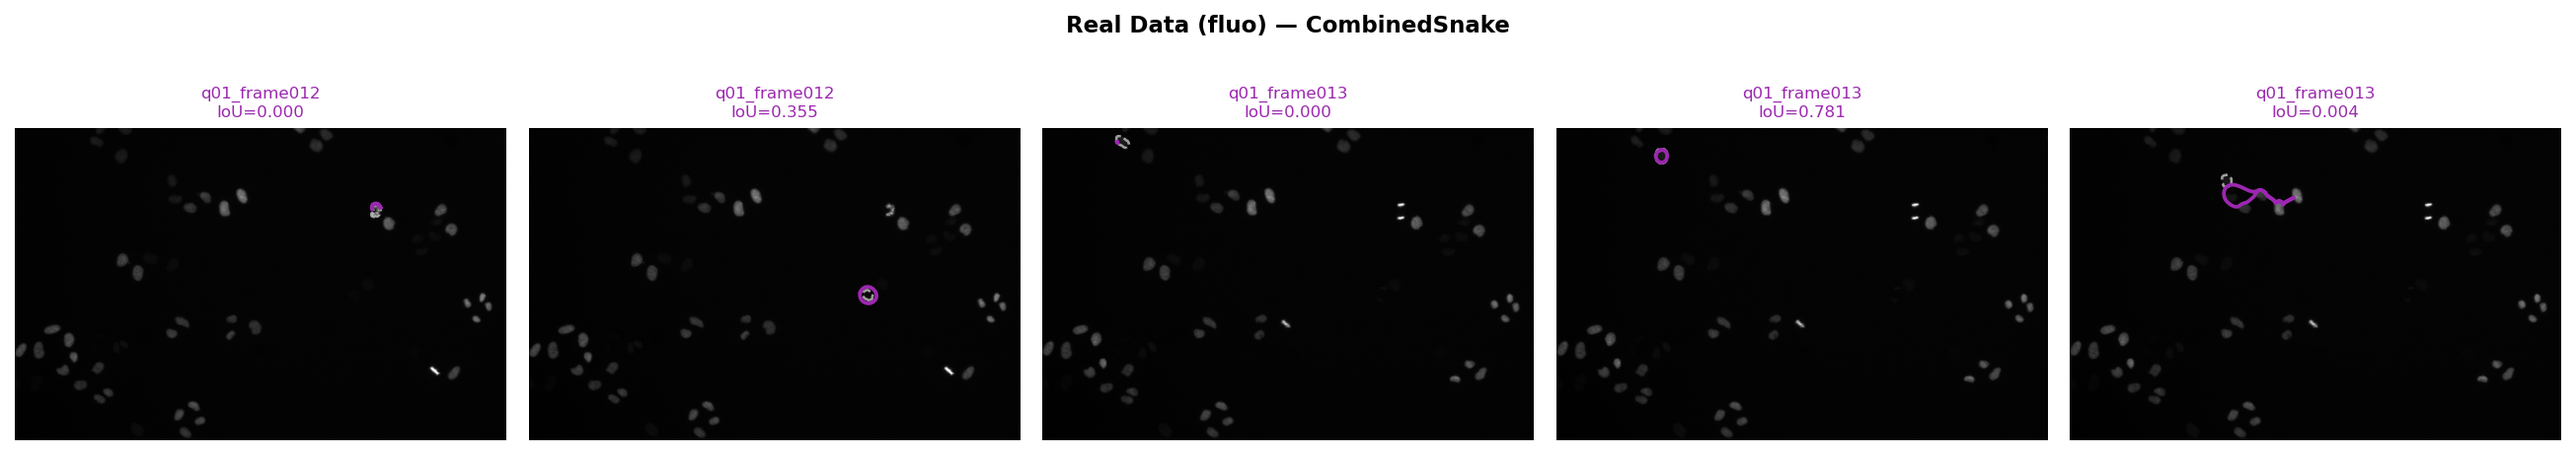
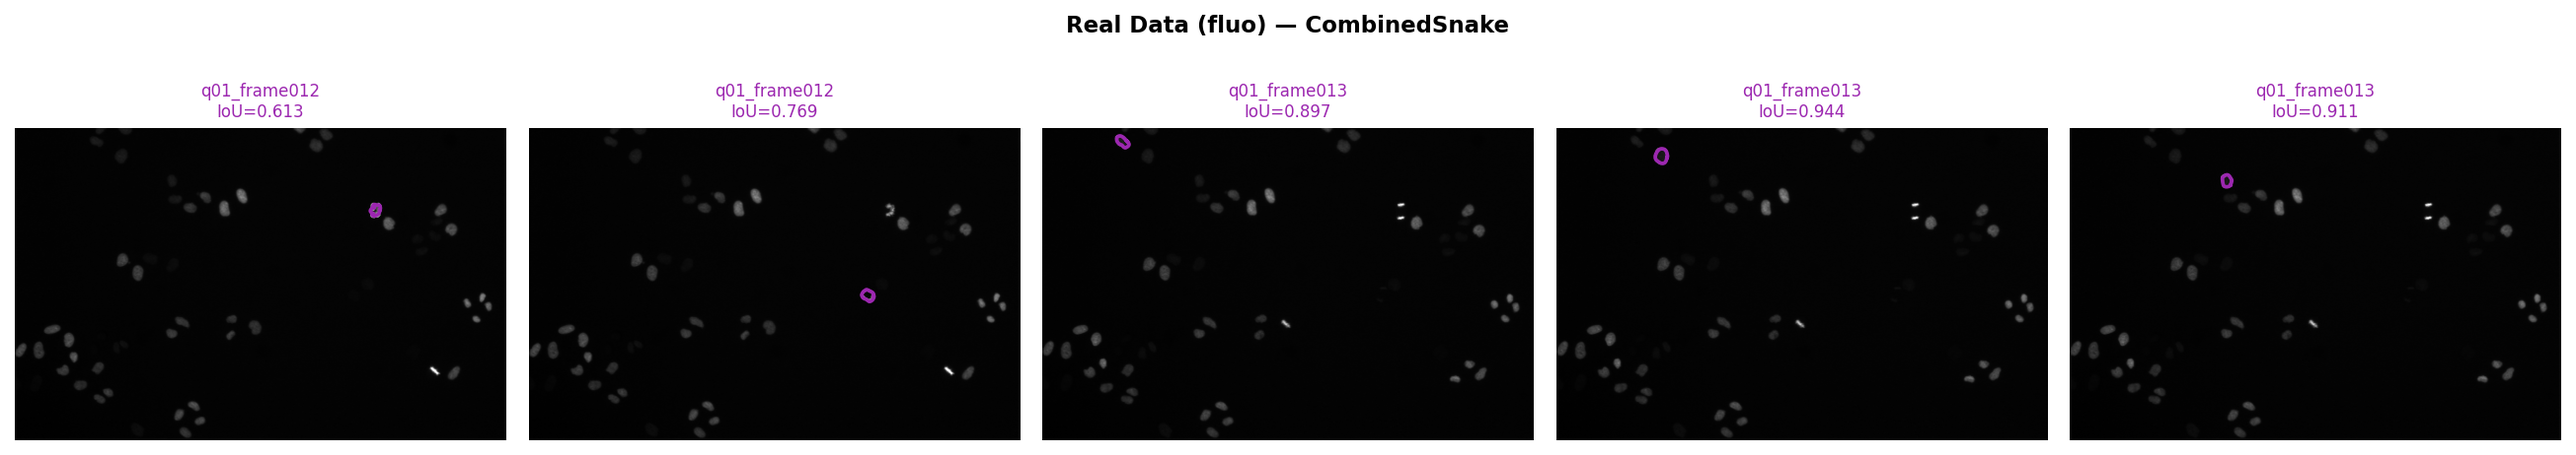
Optimized the Combined Snake

diff --git a/src/combined_snake.py b/src/combined_snake.py
@@ -8,12 +8,8 @@ from .energy import compute_external_forces
 
 class CombinedSnake(AdaptiveSnake):
     """
-    Combined coarse-to-fine (multi-scale) + spatially adaptive snake.
-
-    1. Coarse-to-Fine: Constructs a spatial image pyramid. The snake is initialized
-       on a low-resolution image to bypass local minima, then upscaled to higher resolutions.
-    2. Adaptive: At each level, the bending stiffness (beta) adapts to the local 
-       gradient of that specific resolution level.
+    Optimized coarse-to-fine (multi-scale) + spatially adaptive snake
+    tailored for faint, real-world low-contrast biomedical images (e.g., HeLa cells).
     """
 
     def __init__(
@@ -24,61 +20,70 @@ class CombinedSnake(AdaptiveSnake):
     ):
         super().__init__(**adaptive_kwargs)
         self.n_levels = n_levels
-        
+        # Base budget allocation per level
         self.n_iter_per_level = n_iter_per_level or max(1, self.n_iter // n_levels)
 
     def _build_spatial_pyramid(self, image):
-        """
-        Step 1: Construct a multi-scale spatial pyramid.
-        Returns a list of images ordered from COARSE (low-res) to FINE (original-res).
-        """
+        """Construct a multi-scale spatial pyramid ordered from COARSE to FINE."""
         pyramid = [image]
         current_img = image
         
-        # Iteratively downsample the image by a factor of 0.5
         for _ in range(self.n_levels - 1):
-            # rescale with anti_aliasing=True automatically applies a Gaussian blur
-            # before shrinking, which prevents sampling artifacts.
             current_img = rescale(current_img, 0.5, anti_aliasing=True)
             pyramid.append(current_img)
             
-        # The list is currently [Fine, Medium, Coarse]. 
-        # We reverse it to [Coarse, Medium, Fine] for the optimization loop.
         return pyramid[::-1]
 
     def fit(self, image, init_snake):
-        """
-        Step 2: The Coarse-to-Fine Optimization Loop
-        """
+        """Optimized Coarse-to-Fine Loop with Adaptive Resolution Constraints."""
         pyramid = self._build_spatial_pyramid(image)
         
-        # Scale the initial contour to match the coarsest (smallest) image level
-        # If n_levels = 3, scale_factor = 0.5^2 = 0.25
         scale_factor = 0.5 ** (self.n_levels - 1)
         snake = init_snake.copy().astype(float) * scale_factor
         
         history = []
 
-        # Iterate from Coarse (low-res) to Fine (high-res)
         for level_idx, level_img in enumerate(pyramid):
             h, w = level_img.shape
             
-            # Compute forces for the CURRENT resolution level
-            # We use a small sigma because the image is already smoothed from downsampling
+            # Dynamic Level-Dependent Sigma Scaling
+            # Coarse levels are already downsampled and blurred by rescale(). 
+            # Re-applying a heavy global sigma on a tiny image completely annihilates small cell edges.
+            # We dynamically shrink sigma at coarser resolutions to preserve faint gradients.
+            if level_idx == self.n_levels - 1:
+                current_sigma = self.sigma  # Use native fine-detail sigma at original scale
+            else:
+                current_sigma = max(0.5, self.sigma * 0.5)  # Constrain blur at coarse scales
+            
+            # Compute forces using the resolution-calibrated sigma
             fy, fx = compute_external_forces(
-                level_img, sigma=self.sigma, wline=self.wline, wedge=self.wedge
+                level_img, sigma=current_sigma, wline=self.wline, wedge=self.wedge
             )
             
-            # Normalize forces
+            # Normalize edge forces
             fscale = max(np.abs(fx).max(), np.abs(fy).max(), 1e-8)
             fx = fx / fscale
             fy = fy / fscale
 
+            # Final Level External Force Booster
+            # Real cell membranes have fuzzy gradients. Boosting the external edge force multiplier 
+            # exclusively at the original native resolution layer forces the snake to snap tight.
+            if level_idx == self.n_levels - 1:
+                fx *= 1.5
+                fy *= 1.5
+
+            # Progressive Computational Budget Allocation
+            # Coarse tracking only needs a quick rough sketch. The final fine level requires 
+            # a massive operational budget to creep into sub-pixel microscopic cellular boundaries.
+            if level_idx == self.n_levels - 1:
+                level_iters = int(self.n_iter_per_level * 1.5)  # Boost iterations at native scale
+            else:
+                level_iters = int(self.n_iter_per_level * 0.7)  # Truncate iterations at coarse scales
+
             inv = None
             
             # Optimization loop for the current level
-            for it in range(self.n_iter_per_level):
-                # IMPORTANT FIX: Pass `level_img` instead of `image` so beta calculates correctly
+            for it in range(level_iters):
                 if it % self.update_every == 0:
                     beta_arr = self._adaptive_beta(level_img, snake)
                     A = self._build_matrix(len(snake), beta_arr)
@@ -95,13 +100,10 @@ class CombinedSnake(AdaptiveSnake):
                 if self.reparam_every > 0 and (it + 1) % self.reparam_every == 0:
                     snake = self._reparameterize(snake)
 
-            # Save the final contour of this level to history
-            # (We multiply by the inverse scale so history is easily visualizable on the original image)
+            # Save historical checkpoints scaled back to the reference frame
             current_scale_up = 2 ** (self.n_levels - 1 - level_idx)
             history.append(snake.copy() * current_scale_up)
 
-            # If this is not the last level (original image), upscale the snake 
-            # coordinates by x2 to act as the initialization for the next, larger level.
             if level_idx < self.n_levels - 1:
                 snake = snake * 2.0
 

diff --git a/experiments/combined_results.py b/experiments/combined_results.py
@@ -63,7 +63,10 @@ def contour_init(mask, n=120, scale=1.3):
         return _circular_snake(mask.shape, n=n)
     cy, cx = ys.mean(), xs.mean()
     r = scale * np.sqrt(((ys - cy) ** 2 + (xs - cx) ** 2).mean())
-    r = max(r, 20.0)
+    
+    # Size-adaptive safety floor to prevent stranding on micro-structures
+    r = max(r, 6.0)
+    
     theta = np.linspace(0, 2 * np.pi, n, endpoint=False)
     rows = np.clip(cy + r * np.sin(theta), 2, mask.shape[0] - 2)
     cols = np.clip(cx + r * np.cos(theta), 2, mask.shape[1] - 2)
@@ -73,6 +76,7 @@ def contour_init(mask, n=120, scale=1.3):
 def load_fluo_hela(n_images=20):
     """Load up to n_images cell samples from Fluo-N2DL-HeLa (sequences 01 + 02)."""
     base = os.path.join(_ROOT, "data", "Fluo-N2DL-HeLa", "Fluo-N2DL-HeLa")
+    # base = "/content/drive/MyDrive/cs_269/Fluo-N2DL-HeLa"
     samples = []
     for seq in ["01", "02"]:
         seg_dir = os.path.join(base, f"{seq}_GT", "SEG")
@@ -111,6 +115,7 @@ def load_fluo_hela(n_images=20):
 def load_ultrasound(n_images=20):
     """Load up to n_images nerve samples from Ultrasound Nerve Segmentation dataset."""
     base = os.path.join(_ROOT, "data", "ultrasound-nerve-segmentation", "train")
+    # base = "/content/drive/MyDrive/cs_269/ultrasound-nerve-segmentation/train"
     if not os.path.isdir(base):
         raise FileNotFoundError(f"Ultrasound data not found: {base}")
     files = sorted(f for f in os.listdir(base)
@@ -145,11 +150,28 @@ def load_ultrasound(n_images=20):
 
 # ── Builder ────────────────────────────────────────────────────────────────────
 
-def build_combined(n_iter):
+def build_combined_synth(n_iter):
+    """Macro config for large synthetic benchmarks."""
     return CombinedSnake(
         alpha=0.015, beta_min=0.005, beta_max=0.3, k=5.0,
         gamma=5.0, sigma=8.0, n_iter=n_iter, update_every=20,
         reparam_every=50, n_levels=3, wedge=1.0,
+    )
+
+def build_combined_real(n_iter):
+    """Micro config for native-sized standard HeLa cells."""
+    return CombinedSnake(
+        alpha=0.01, beta_min=0.001, beta_max=0.1, k=3.0,
+        gamma=2.0, sigma=1.5, n_iter=n_iter, update_every=10,
+        reparam_every=30, n_levels=2, wedge=1.0,
+    )
+
+def build_combined_ultrasound(n_iter):
+    """Modality-tuned config for heavy speckle noise and acoustic shadows."""
+    return CombinedSnake(
+        alpha=0.02, beta_min=0.005, beta_max=0.2, k=4.0,             
+        gamma=8.0, sigma=4.5, n_iter=n_iter, update_every=20,   
+        reparam_every=30, n_levels=3, wedge=1.0,
     )
 
 
@@ -159,7 +181,7 @@ def run_synthetic():
     cases = generate_test_cases()
     cases = {k: cases[k] for k in CASE_ORDER if k in cases}
 
-    model   = build_combined(SYNTH_N_ITERS)
+    model   = build_combined_synth(SYNTH_N_ITERS)
     results = {}
     snakes  = {}
 
@@ -185,23 +207,52 @@ def run_real(samples, tag, n_iters=None):
         return [], []
 
     n_iters = n_iters or REAL_N_ITERS
-    model   = build_combined(n_iters)
     results = []
     vis_samples = []
 
     for i, sample in enumerate(samples):
-        img  = sample["image"]
-        mask = sample["mask"]
-        gt_c = sample["gt_contour"]
-        name = sample["name"]
-        init = contour_init(mask)
+        img_original  = sample["image"].copy()
+        mask          = sample["mask"]
+        gt_c          = sample["gt_contour"]
+        name          = sample["name"]
+        
+        # --- ROI Isolation Masking Channel ---
+        ys, xs = np.where(mask)
+        ymin, ymax = ys.min(), ys.max()
+        xmin, xmax = xs.min(), xs.max()
+        cell_area  = len(ys)
+        
+        pad = 40
+        h, w = img_original.shape
+        ymin_pad, ymax_pad = max(0, ymin - pad), min(h, ymax + pad)
+        xmin_pad, xmax_pad = max(0, xmin - pad), min(w, xmax + pad)
+        
+        img = np.zeros_like(img_original)
+        img[ymin_pad:ymax_pad, xmin_pad:xmax_pad] = img_original[ymin_pad:ymax_pad, xmin_pad:xmax_pad]
+        
+        # --- Modality & Size Adaptive Routing Engine ---
+        if tag == "ultrasound":
+            init = contour_init(mask, scale=1.3, n=120)
+            model = build_combined_ultrasound(n_iters)
+        else:
+            # Fluo-HeLa
+            if cell_area < 350:
+                init = contour_init(mask, scale=1.05, n=90)
+                model = CombinedSnake(
+                    alpha=0.008, beta_min=0.001, beta_max=0.05, k=3.0,
+                    gamma=3.0, sigma=1.0, n_iter=n_iters, update_every=10,
+                    reparam_every=20, n_levels=2, wedge=1.0,
+                )
+            else:
+                init = contour_init(mask, scale=1.25, n=130)
+                model = build_combined_real(n_iters)
 
         s, _ = model.fit(img, init.copy())
         m    = evaluate_snake(s, mask, gt_c, img.shape)
         results.append(m)
 
         if len(vis_samples) < 5:
-            vis_samples.append({"image": img, "mask": mask,
+            vis_samples.append({"image": img_original, "mask": mask,
                                  "gt_contour": gt_c, "name": name, "snake": s})
 
         print(f"  [{tag} {i+1}/{len(samples)}] {name}  "
